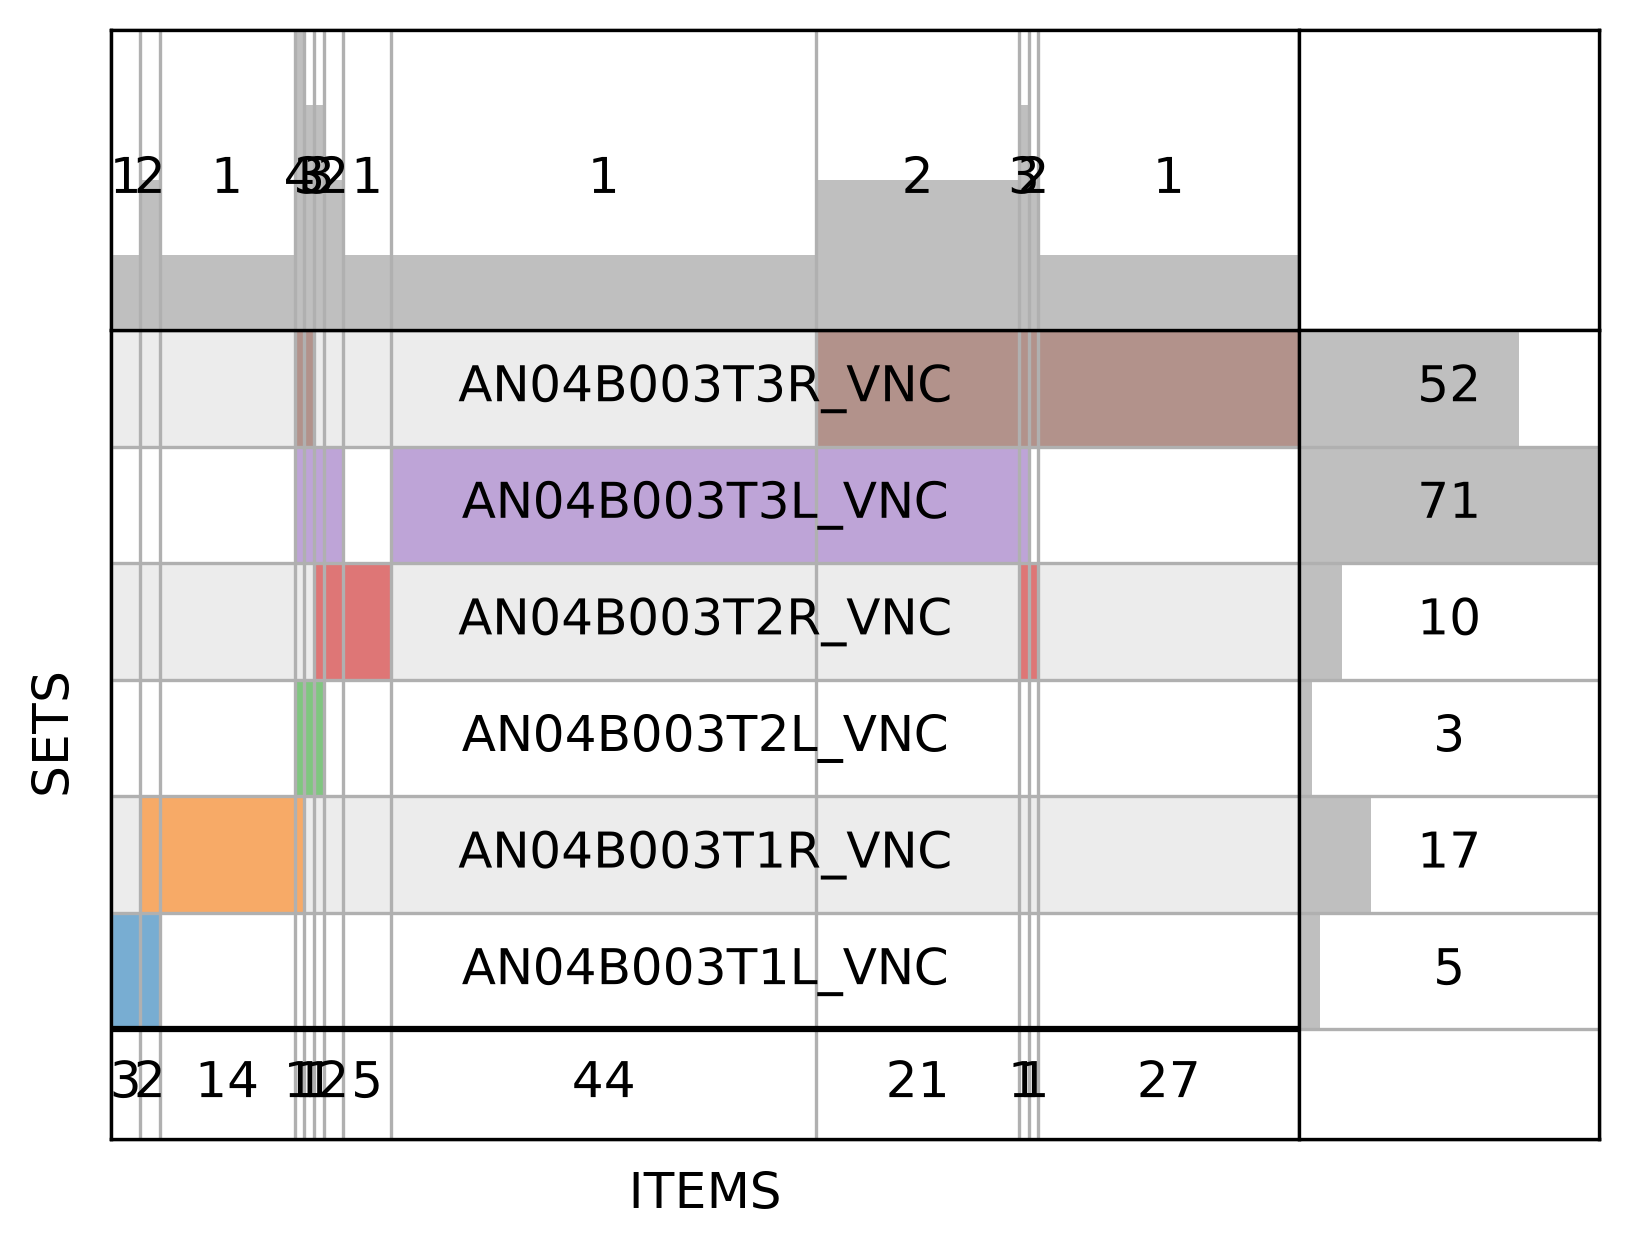
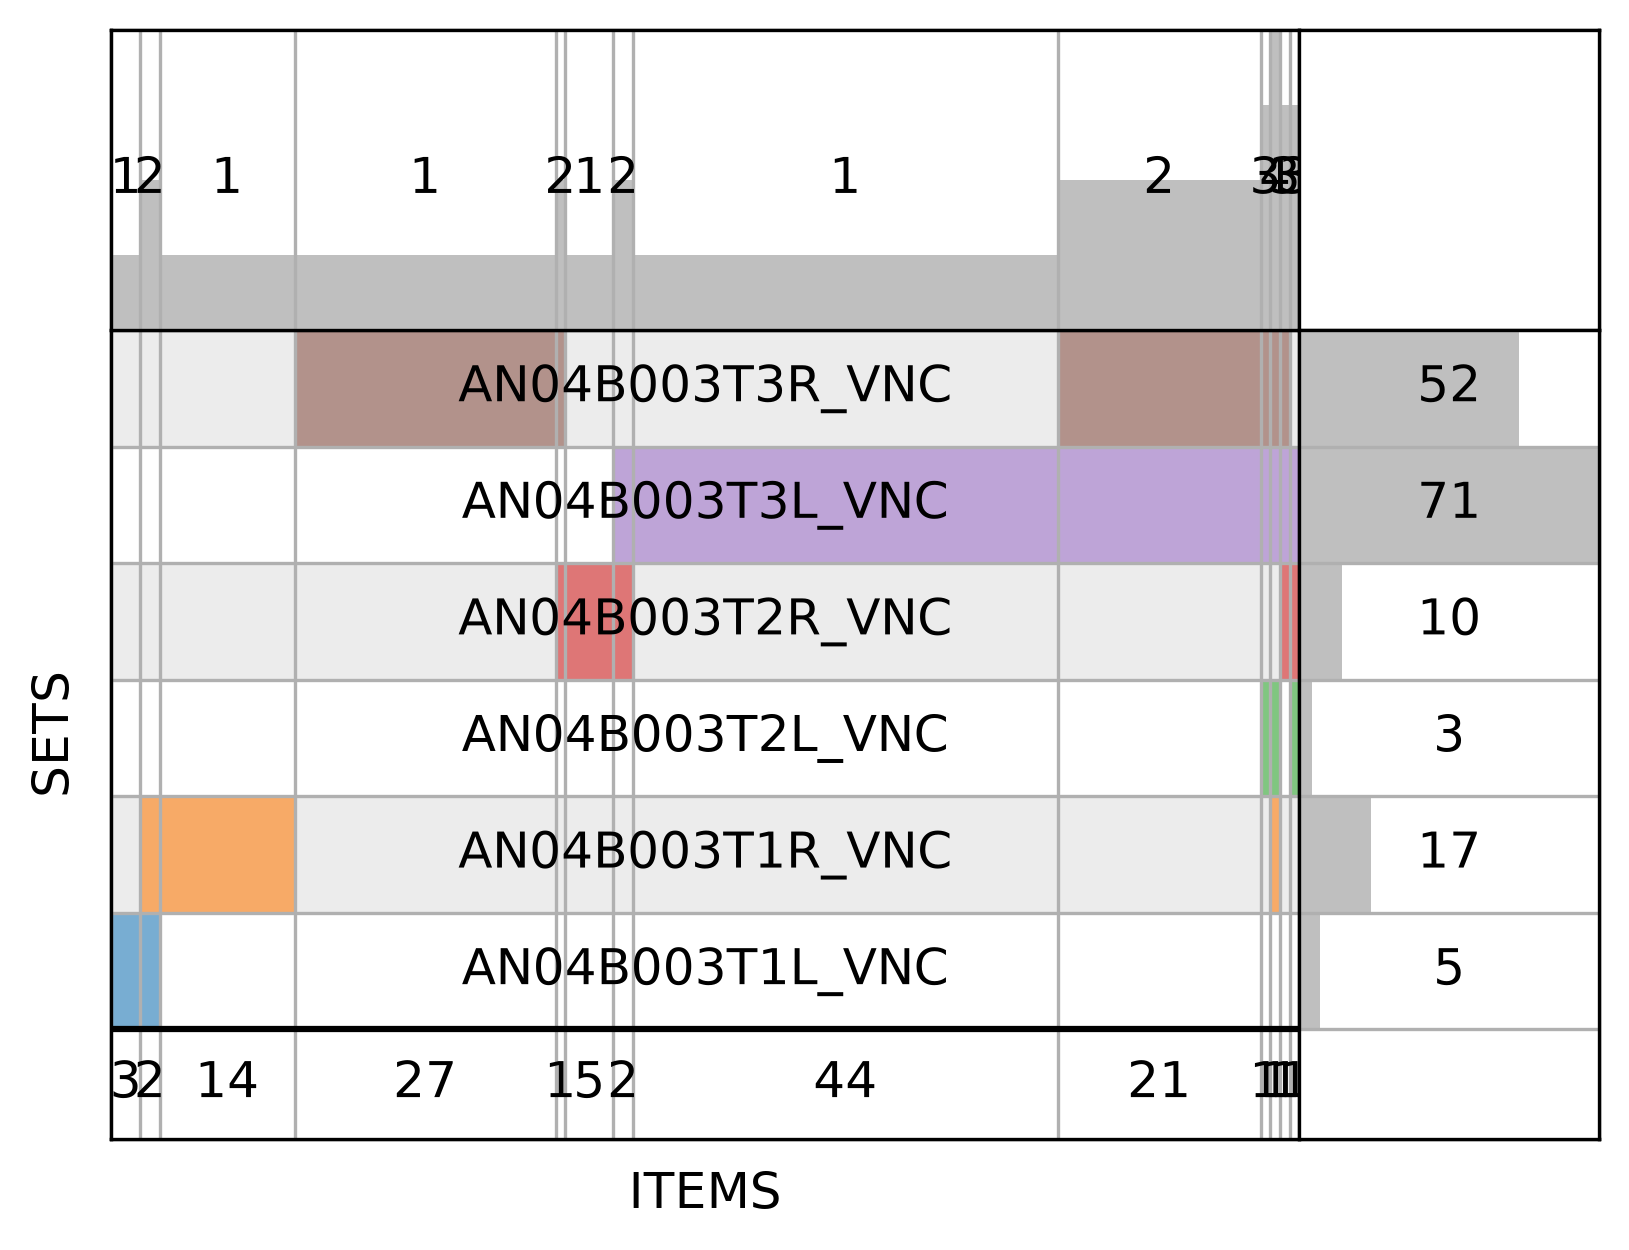
intersections online

diff --git a/neuronbridgesortV2.py b/neuronbridgesortV2.py
@@ -7,10 +7,14 @@ def main():
 
     NDL = gen_Neuron_Driver_Libraries()
     
-    sets, labels = superVennSetsAndLabels(NDL)
-        
-    plotSuperVenn = supervenn(sets, labels)
-    plt.savefig("output.png", dpi=300, bbox_inches="tight")
+    driversets, labels = superVennSetsAndLabels(NDL)
+
+    # plotSuperVenn = supervenn(sets, labels)
+
+    # plt.savefig("output.png", dpi=300, bbox_inches="tight")
+
+    intersectionsAndExclusions(driversets, labels)
+
     return
 
 def gen_Neuron_Driver_Libraries():
@@ -40,13 +44,13 @@ def extract_LSM(neuron_file):
 def LSM_Filter_Drivers(Neuron_LSM):
 
    #filters the data set and returns the drivers lines that fit the filter parameters 
-   Neuron_LSM_Filtered = Neuron_LSM[ (Neuron_LSM["Score"] >= 500) & (Neuron_LSM["Matched Pixels"] >= 200) ]
+   Neuron_LSM_Filtered = Neuron_LSM[ (Neuron_LSM["Score"] >= 4) & (Neuron_LSM["Matched Pixels"] >= 4) ]
     
    return(Neuron_LSM_Filtered["Line Name"])
 
 def superVennSetsAndLabels(NDL):
 
-    sets = list()
+    driversets = list()
     labels = list()
 
     for key in NDL.keys():
@@ -54,9 +58,29 @@ def superVennSetsAndLabels(NDL):
         set_to_add = set()
         for driver in NDL[key]:
             set_to_add.add(driver)
-        sets.append(set_to_add)
+        driversets.append(set_to_add)
 
-    return(sets, labels)
+    return(driversets, labels)
+
+def intersectionsAndExclusions(driversets, labels):
+
+    result = set.intersection(*driversets)
+        
+    print(result)
+
+    return
+
+
+
+         
+    
+
+    
+
+    
+
+            
+    return ()
 
 if __name__== '__main__':
     main()
